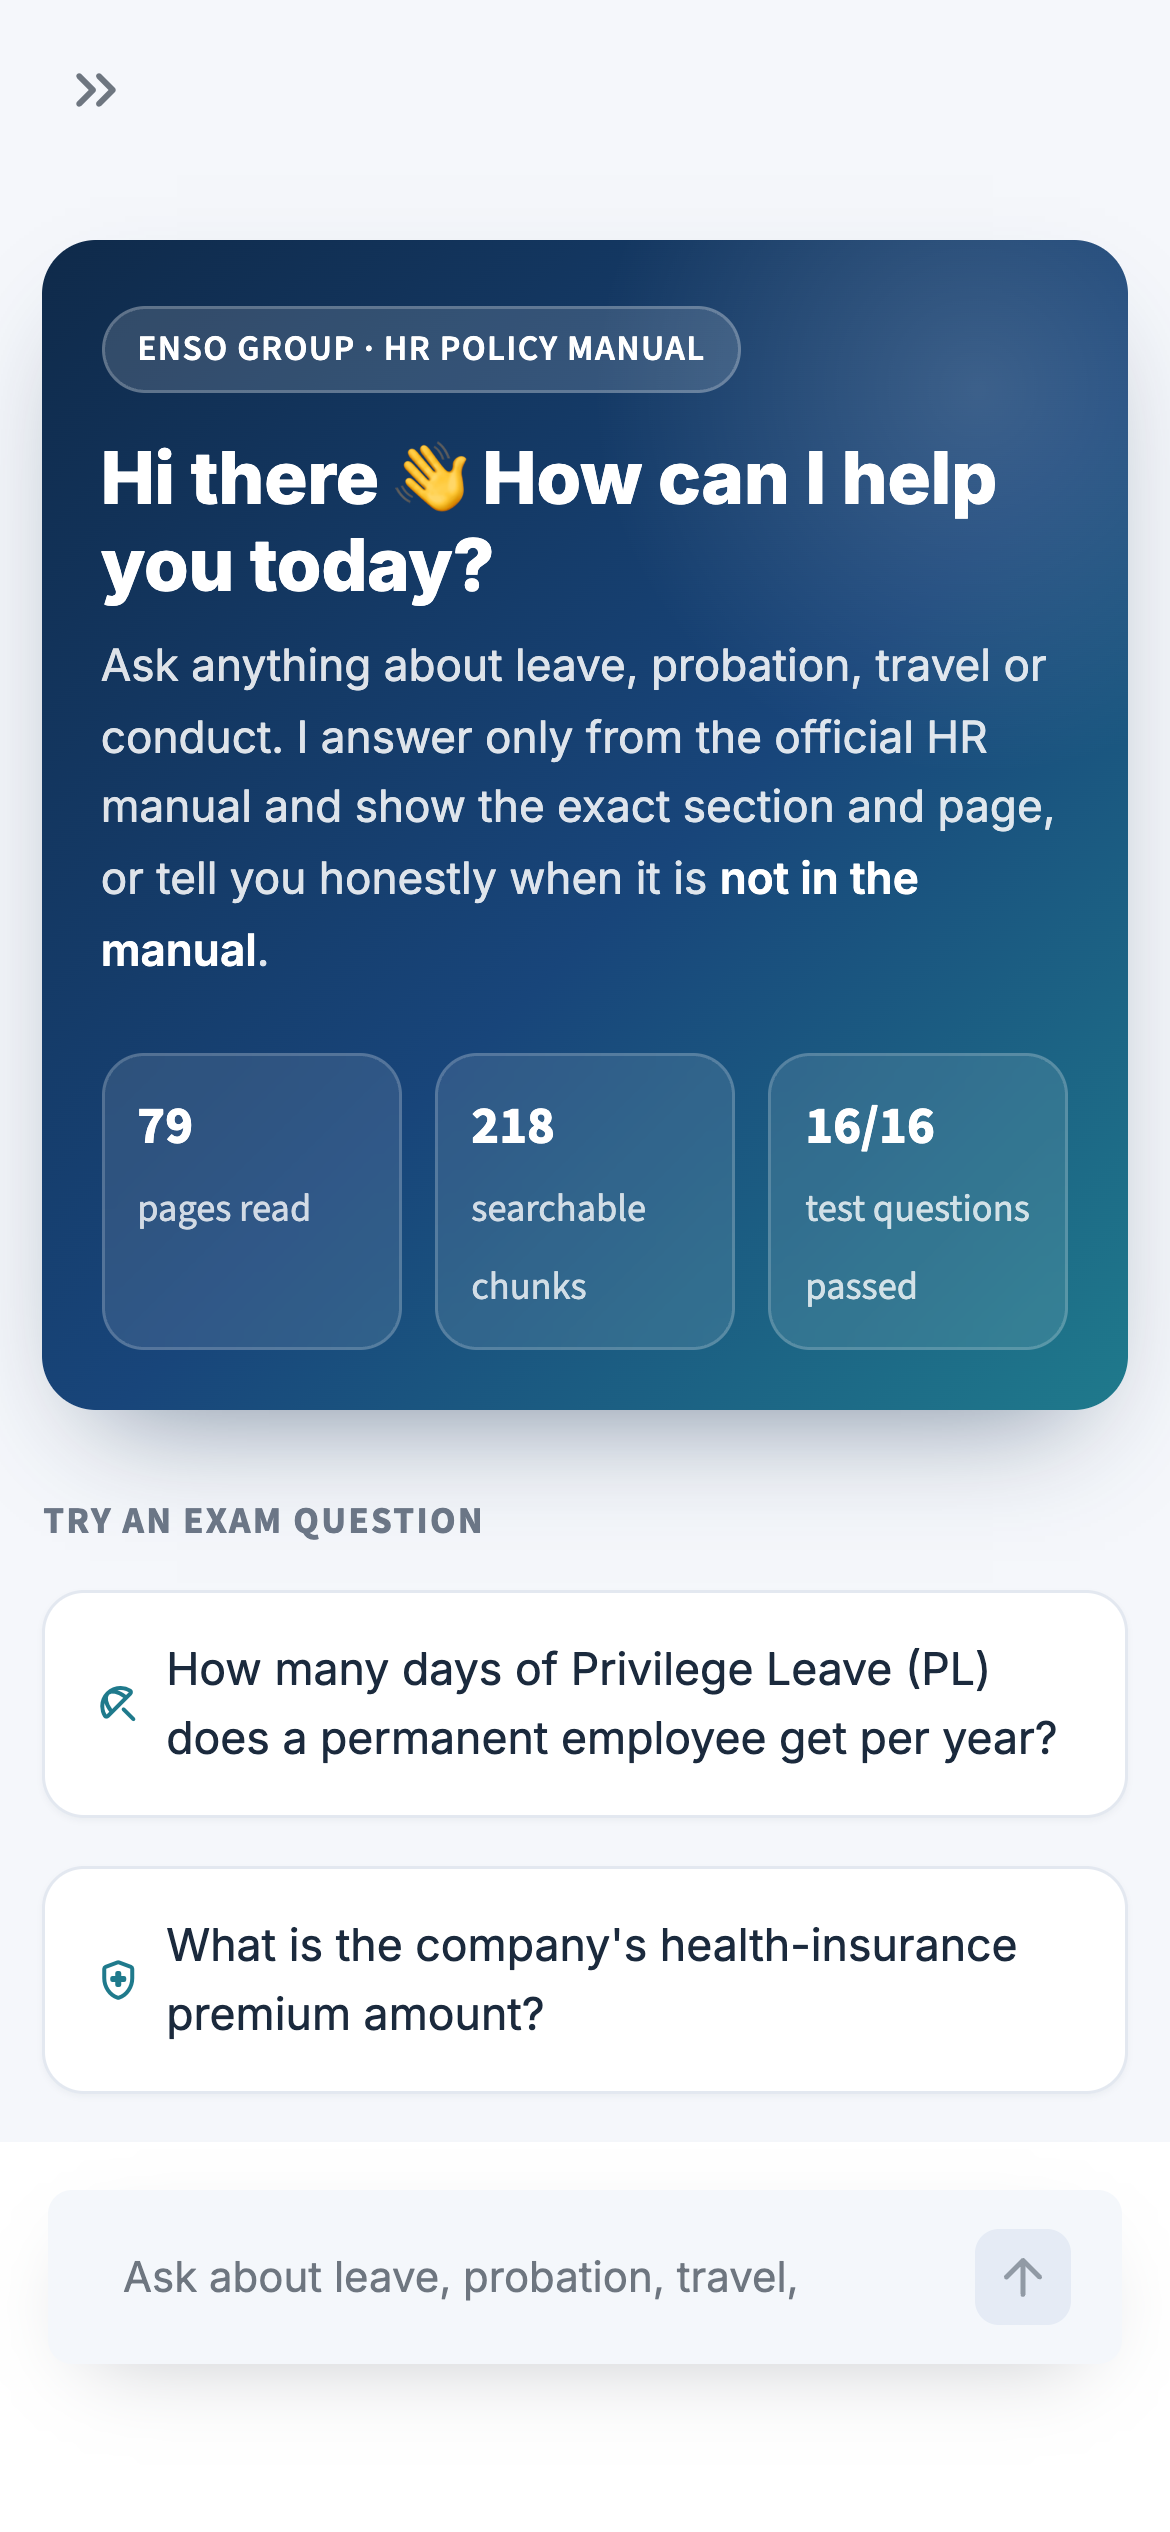
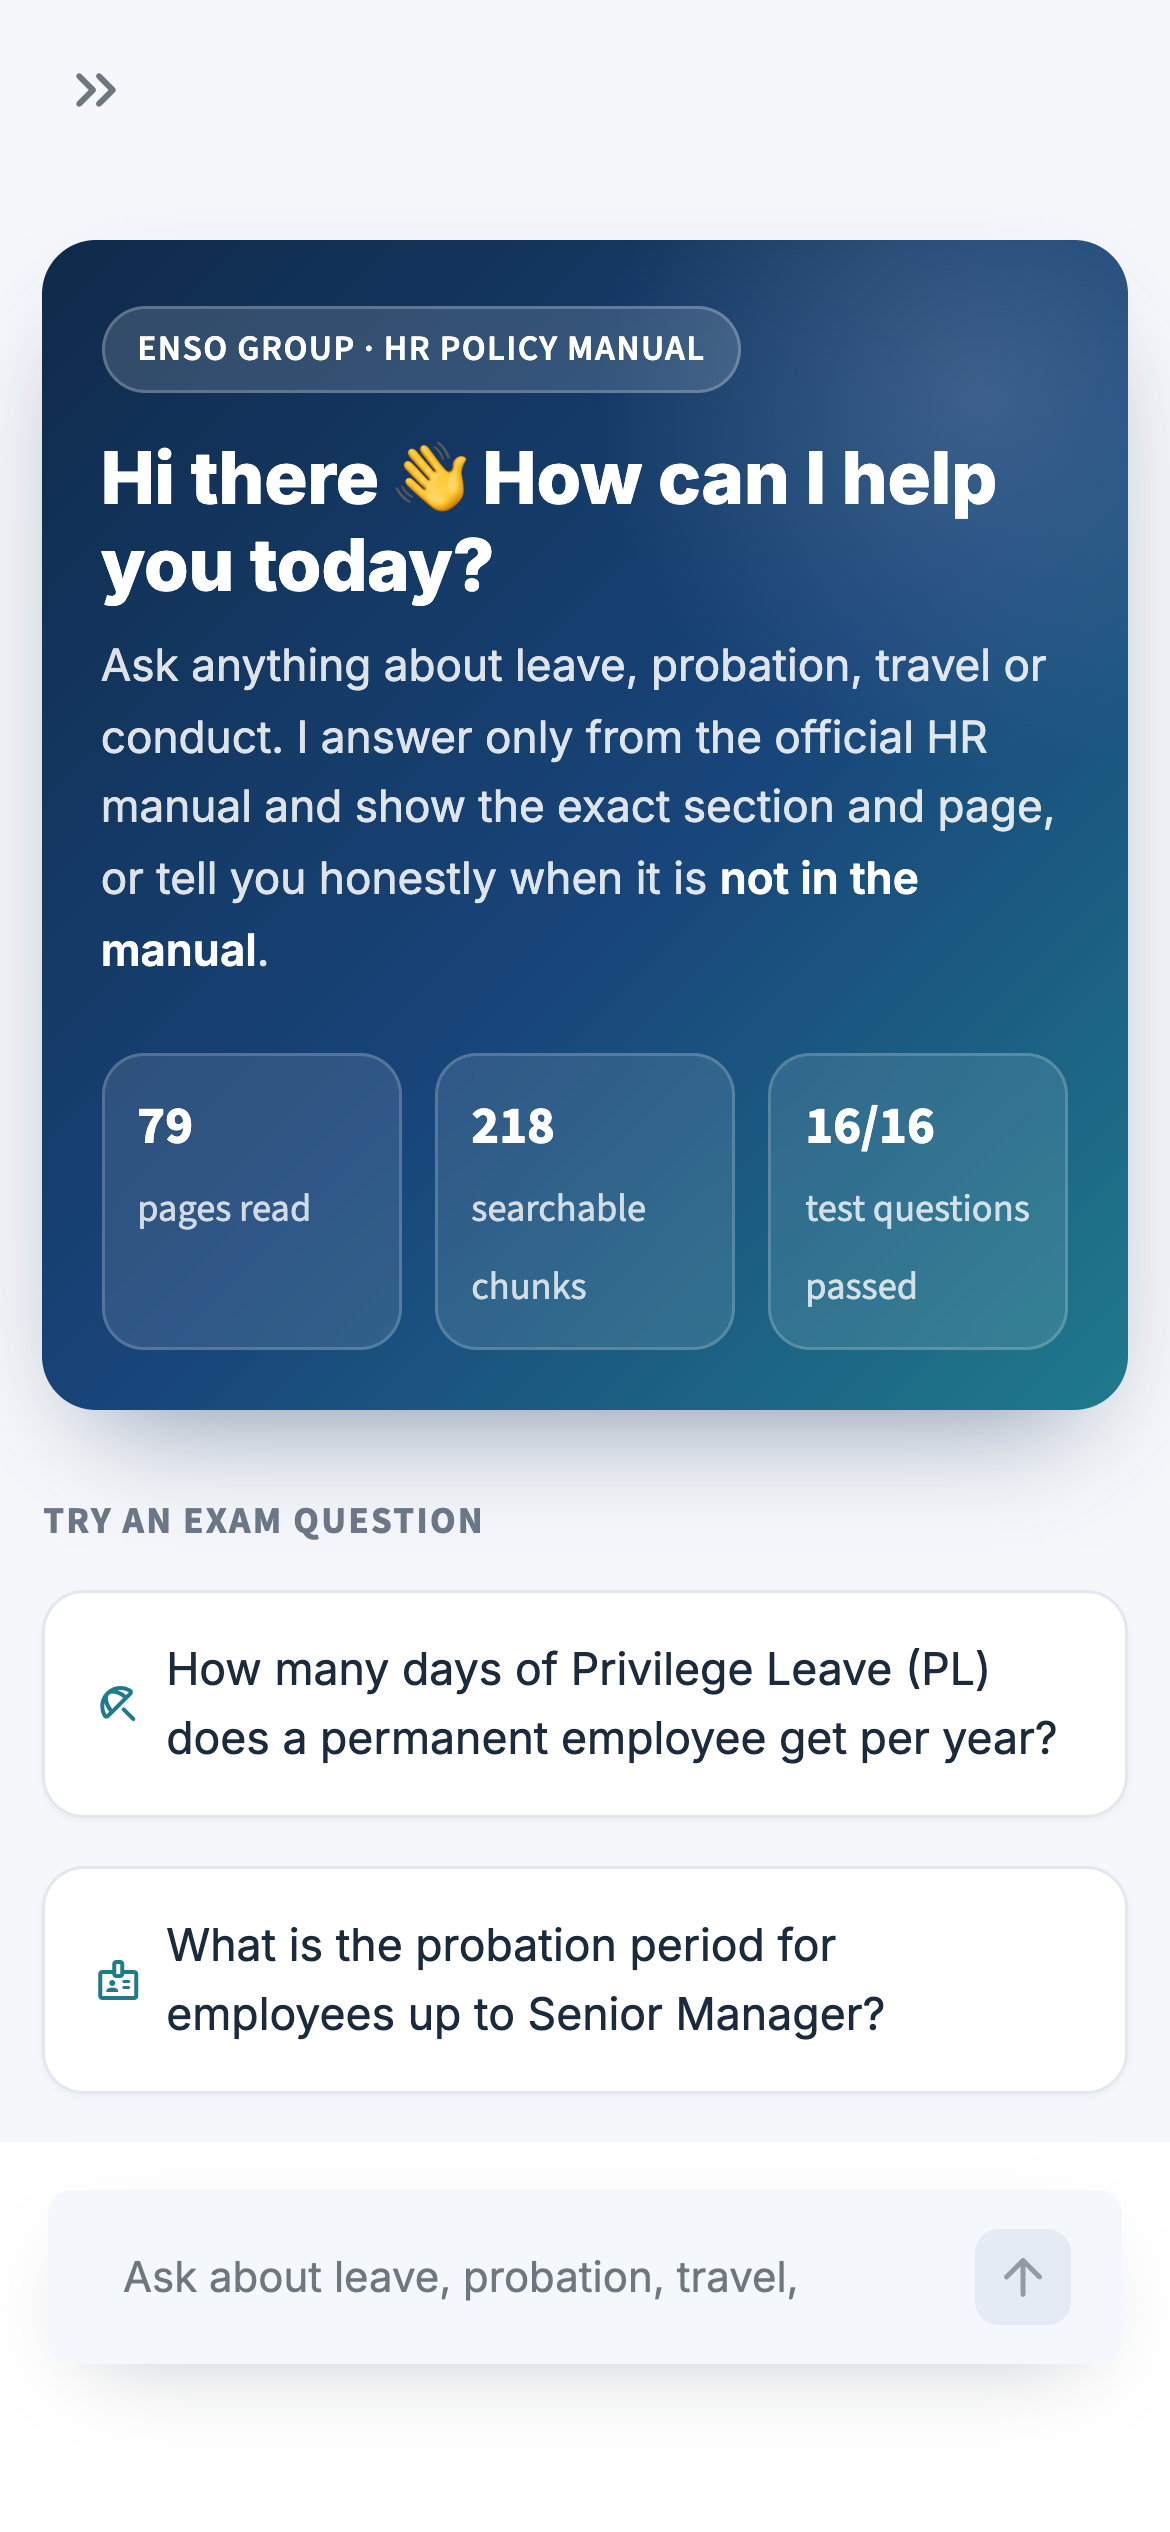
keep question cards in order on mobile

Changed region(s): [[0.1538, 0.7488, 0.8615, 0.8112], [0.0923, 0.78, 0.1231, 0.8112]]

diff --git a/app.py b/app.py
@@ -216,10 +216,12 @@ if not st.session_state.history and not question:
 """, unsafe_allow_html=True)
 
     st.markdown('<div class="label">Try an exam question</div>', unsafe_allow_html=True)
-    cols = st.columns(2)
-    for i, q in enumerate(exam_questions):
-        with cols[i % 2]:
-            st.button(q, key=f"try{i}", icon=topics[i][0], on_click=pick, args=(q,), width="stretch")
+    # one row of two cards at a time so phones show them in order
+    for row in range(0, len(exam_questions), 2):
+        cols = st.columns(2)
+        for i in range(row, min(row + 2, len(exam_questions))):
+            with cols[i - row]:
+                st.button(exam_questions[i], key=f"try{i}", icon=topics[i][0], on_click=pick, args=(exam_questions[i],), width="stretch")
 
     st.markdown("""
 <div class="label">How it works</div>
